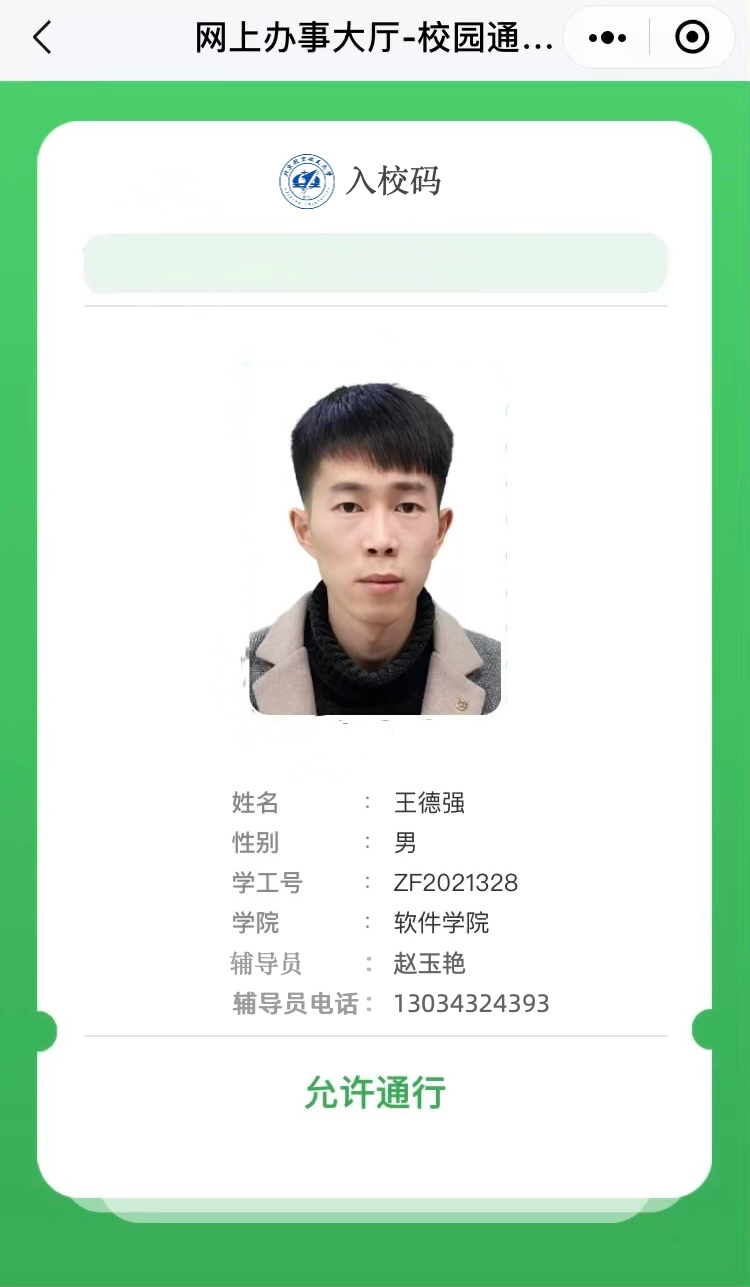
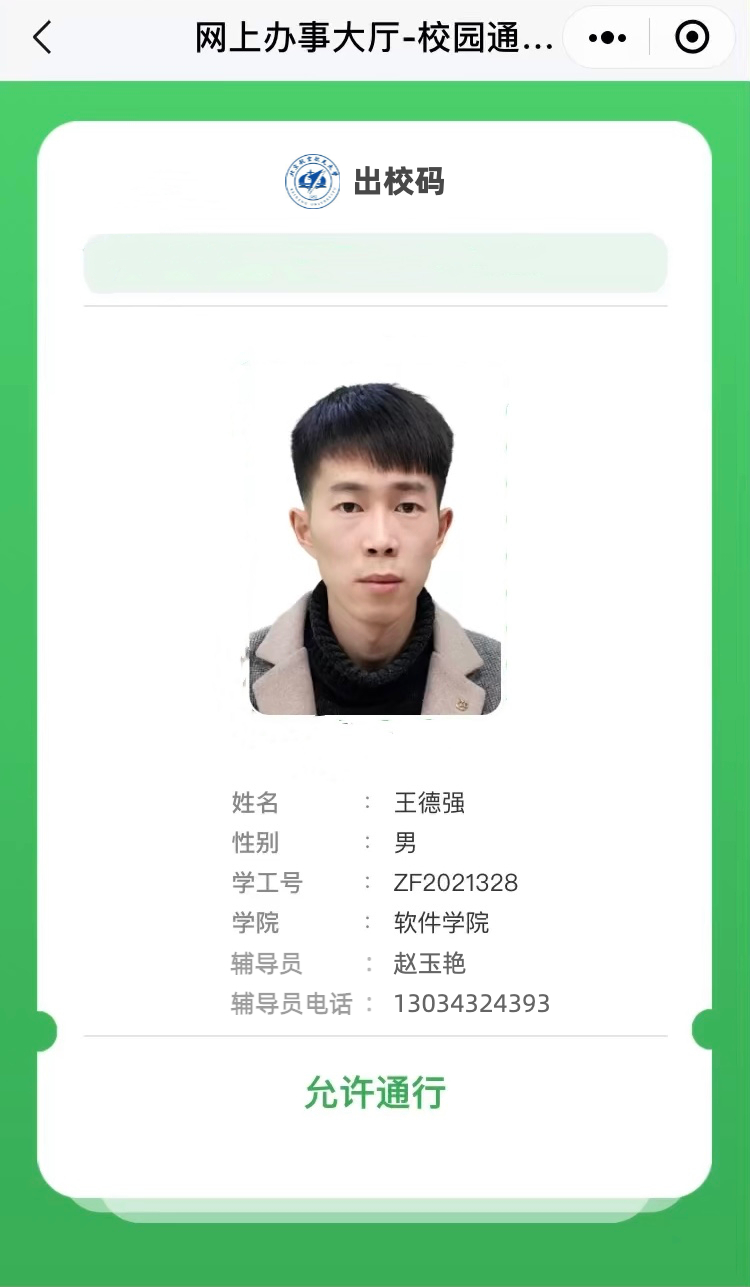
update

Changed region(s): [[0.368, 0.0932, 0.6133, 0.1865], [0.3067, 0.7459, 0.4907, 0.8081]]

diff --git a/index2.html b/index2.html
@@ -1,6 +1,6 @@
 <html>
     <body  style="background-image: url(./2-4.jpg);background-size:755px 1334px;background-repeat:no-repeat;background-size: cover;">
-    <div id="times" style="font-size:2.5rem;color:#49CF6B;position:absolute;top:318px;left:265px;font-weight:normal;font-family: ui-monospace;"></div>
+    <div id="times" style="font-size:2.5rem;color:#49CF6B;position:absolute;top:318px;left:250px;font-weight:normal;font-family: ui-monospace;"></div>
     <div style="position:absolute;top:455px;left:300px;"><img style="width:380px;height:auto" src="./green_bg.gif"></div>
     <div style="position:absolute;top:800px;height:1000px;width:100%"></div>
     </body>

diff --git a/index4.html b/index4.html
@@ -1,6 +1,6 @@
 <html>
     <body  style="background-image: url(./2-3.jpg);background-size:755px 1334px;background-repeat:no-repeat;background-size: cover;">
-    <div id="times" style="font-size:2.5rem;color:#49CF6B;position:absolute;top:318px;left:265px;font-weight:normal;font-family: ui-monospace;"></div>
+    <div id="times" style="font-size:2.5rem;color:#49CF6B;position:absolute;top:318px;left:250px;font-weight:normal;font-family: ui-monospace;"></div>
     <div style="position:absolute;top:455px;left:300px;"><img style="width:380px;height:auto" src="./green_bg.gif"></div>
     <div style="position:absolute;top:800px;height:1000px;width:100%"></div>
     </body>
